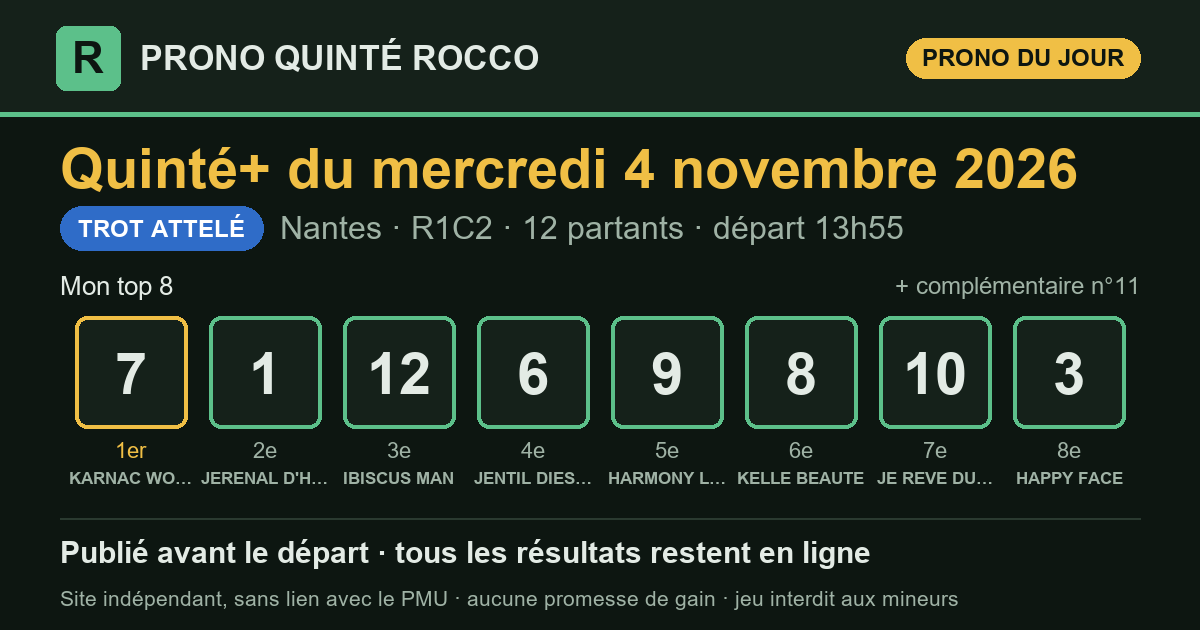
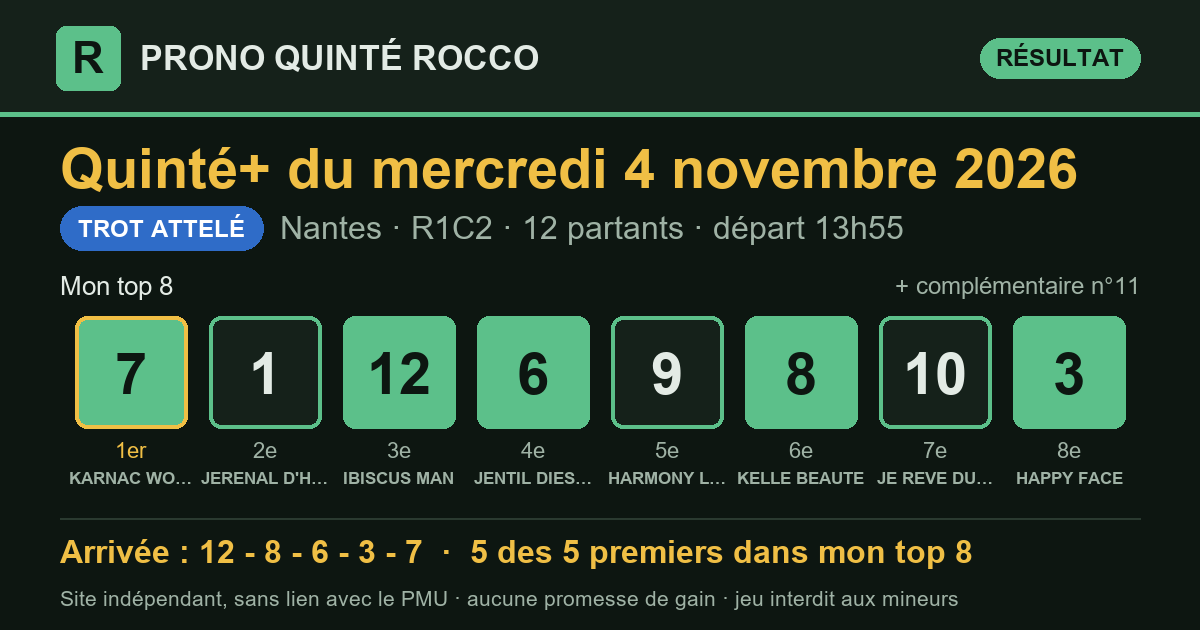
Prono Quinté+ 2026-11-04 Nantes R1C2 — publié le 04/11/2026 14:12 (heure de Paris)

diff --git a/partants.html b/partants.html
@@ -3,7 +3,7 @@
 <head>
 <meta charset="utf-8">
 <meta name="viewport" content="width=device-width, initial-scale=1, viewport-fit=cover">
-<title>Partants du Quinté+ du mercredi 4 novembre 2026 — Prono Quinté Rocco</title>
+<title>Partants du Quinté+ du jeudi 5 novembre 2026 — Prono Quinté Rocco</title>
 <meta name="description" content="Les partants du prochain Quinté+ (programme officiel du PMU), avec le rang de chaque cheval dans mon prono et les liens vers les pronostics de la presse.">
 <link rel="canonical" href="https://prono-quinte-rocco.fr/partants.html">
 <link rel="stylesheet" href="style.css?v=36fc57ed">
@@ -13,7 +13,7 @@
 <meta property="og:site_name" content="Prono Quinté Rocco">
 <meta property="og:locale" content="fr_FR">
 <meta property="og:type" content="website">
-<meta property="og:title" content="Partants du Quinté+ du mercredi 4 novembre 2026 — Prono Quinté Rocco">
+<meta property="og:title" content="Partants du Quinté+ du jeudi 5 novembre 2026 — Prono Quinté Rocco">
 <meta property="og:description" content="Les partants du prochain Quinté+ (programme officiel du PMU), avec le rang de chaque cheval dans mon prono et les liens vers les pronostics de la presse.">
 <meta property="og:url" content="https://prono-quinte-rocco.fr/partants.html">
 <meta name="twitter:card" content="summary">
@@ -29,85 +29,110 @@
   <p class="surtitre">Programme officiel du PMU</p>
   <h1>Les partants du prochain Quinté+</h1>
   <div class="fiche-course">
-    <p class="fiche-date">Mercredi 4 novembre 2026</p>
-    <div class="fiche-rc"><span class="pastille" title="Réunion 1">R1</span><span class="pastille" title="Course 2">C2</span><span class="fiche-nom">Grand National du Trot</span></div>
-    <p class="meta"><span class="type t-attele">Trot attelé</span>Nantes · 3 000 m · 12 partants</p>
+    <p class="fiche-date">Jeudi 5 novembre 2026</p>
+    <div class="fiche-rc"><span class="pastille" title="Réunion 1">R1</span><span class="pastille" title="Course 1">C1</span><span class="fiche-nom">Prix d&#x27;Avranches</span></div>
+    <p class="meta"><span class="type t-attele">Trot attelé</span>Vincennes · 2 100 m · 18 partants</p>
     <p class="fiche-depart">Départ <b>13:55</b> <span>heure de Paris</span></p>
   </div>
   <p class="surtitre">Les pronostics ailleurs sur le web</p>
-  <div class="liens"><a class="lien-ext" href="https://www.turfoo.fr/programmes-courses/261104/reunion1-nantes/course2-grand-national-du-trot/pronostics-presse/" rel="noopener" target="_blank"><b>Les pronostics de la presse →</b><span>sur Turfoo (site extérieur)</span></a><a class="lien-ext" href="https://www.geny.com/programme/2026-11-04" rel="noopener" target="_blank"><b>Partants et pronostics →</b><span>programme du jour sur Geny (site extérieur)</span></a></div>
+  <div class="liens"><a class="lien-ext" href="https://www.turfoo.fr/programmes-courses/261105/reunion1-vincennes/course1-prix-d-avranches/pronostics-presse/" rel="noopener" target="_blank"><b>Les pronostics de la presse →</b><span>sur Turfoo (site extérieur)</span></a><a class="lien-ext" href="https://www.geny.com/programme/2026-11-05" rel="noopener" target="_blank"><b>Partants et pronostics →</b><span>programme du jour sur Geny (site extérieur)</span></a></div>
   <div class="liste-boite"><table class="liste-partants">
     <thead><tr><th>N°</th><th>Cheval</th><th class="cote"><span class="long">Cote du matin</span><span class="court">Cote</span></th>
     <th class="ia"><span class="long">Mon prono</span><span class="court">Prono</span></th></tr></thead>
     <tbody><tr>
   <td><span class="tapis petit">1</span></td>
-  <td><span class="cheval">JERENAL D&#x27;HAMELINE</span><span class="sous">A. WIELS · J.P. MARMION</span></td>
-  <td class="cote num">10,0</td>
-  <td class="ia"><span class="etat place">2<sup>e</sup></span></td>
+  <td><span class="cheval">KOTKIE</span><span class="sous">P.PH. PLOQUIN · J.R. DELLIAUX</span></td>
+  <td class="cote num">—</td>
+  <td class="ia">—</td>
 </tr><tr>
   <td><span class="tapis petit">2</span></td>
-  <td><span class="cheval">IDOLE DE MEAT</span><span class="sous">F. GUINHUT · F. GUINHUT</span></td>
-  <td class="cote num">47,0</td>
+  <td><span class="cheval">ISIS D&#x27;HERFRAIE</span><span class="sous">D. THOMAIN · CL. THOMAIN</span></td>
+  <td class="cote num">—</td>
   <td class="ia">—</td>
 </tr><tr>
   <td><span class="tapis petit">3</span></td>
-  <td><span class="cheval">HAPPY FACE</span><span class="sous">M. ABRIVARD · CH.A. MARY</span></td>
-  <td class="cote num">19,0</td>
-  <td class="ia"><span class="etat place">8<sup>e</sup></span></td>
+  <td><span class="cheval">MATEO DI QUATTRO</span><span class="sous">B. GOOP · B. GOOP</span></td>
+  <td class="cote num">—</td>
+  <td class="ia">—</td>
 </tr><tr>
   <td><span class="tapis petit">4</span></td>
-  <td><span class="cheval">HAPPY DANOVER</span><span class="sous">J. TRAVERS · St. PROVOOST</span></td>
-  <td class="cote num">49,0</td>
+  <td><span class="cheval">JOKER DES CHALIERS</span><span class="sous">G. GELORMINI · A. CHAVATTE</span></td>
+  <td class="cote num">—</td>
   <td class="ia">—</td>
 </tr><tr>
   <td><span class="tapis petit">5</span></td>
-  <td><span class="cheval">JANE AIMEE</span><span class="sous">J.PH. MONCLIN · Sté. Ent. Christophe CLIN</span></td>
-  <td class="cote num">63,0</td>
+  <td><span class="cheval">EVERY TIME WINNER</span><span class="sous">E. RAFFIN · H.E. BONDO</span></td>
+  <td class="cote num">—</td>
   <td class="ia">—</td>
 </tr><tr>
   <td><span class="tapis petit">6</span></td>
-  <td><span class="cheval">JENTIL DIESCHOOT</span><span class="sous">A. COLLETTE · K. LEBLANC</span></td>
-  <td class="cote num">7,9</td>
-  <td class="ia"><span class="etat place">4<sup>e</sup></span></td>
+  <td><span class="cheval">HUMANITY PELLINI</span><span class="sous">D. BEKAERT · CH. ERIKSSON</span></td>
+  <td class="cote num">—</td>
+  <td class="ia">—</td>
 </tr><tr>
   <td><span class="tapis petit">7</span></td>
-  <td><span class="cheval">KARNAC WOOD</span><span class="sous">H. MONTHULE · S. GUARATO</span></td>
-  <td class="cote num">4,2</td>
-  <td class="ia"><span class="etat place">1<sup>er</sup></span></td>
+  <td><span class="cheval">JUSSEO</span><span class="sous">JULIEN RAFFESTIN · Julien RAFFESTIN</span></td>
+  <td class="cote num">—</td>
+  <td class="ia">—</td>
 </tr><tr>
   <td><span class="tapis petit">8</span></td>
-  <td><span class="cheval">KELLE BEAUTE</span><span class="sous">A. ABRIVARD · L.CL. ABRIVARD</span></td>
-  <td class="cote num">10,0</td>
-  <td class="ia"><span class="etat place">6<sup>e</sup></span></td>
+  <td><span class="cheval">HINDEN</span><span class="sous">A. BARRIER · P.J. CORDEAU</span></td>
+  <td class="cote num">—</td>
+  <td class="ia">—</td>
 </tr><tr>
   <td><span class="tapis petit">9</span></td>
-  <td><span class="cheval">HARMONY LA NUIT</span><span class="sous">E. RAFFIN · S. BOURLIER</span></td>
-  <td class="cote num">11,0</td>
-  <td class="ia"><span class="etat place">5<sup>e</sup></span></td>
+  <td><span class="cheval">READY STAR</span><span class="sous">MATS DJUSE · J. WESTHOLM</span></td>
+  <td class="cote num">—</td>
+  <td class="ia">—</td>
 </tr><tr>
   <td><span class="tapis petit">10</span></td>
-  <td><span class="cheval">JE REVE DU BOIS</span><span class="sous">A. BARRIER · CH.M. BRUNEAU</span></td>
-  <td class="cote num">12,0</td>
-  <td class="ia"><span class="etat place">7<sup>e</sup></span></td>
+  <td><span class="cheval">DIE HARD (ITY)</span><span class="sous">THEO DUVALDESTIN · P.L. DESAUNETTE</span></td>
+  <td class="cote num">—</td>
+  <td class="ia">—</td>
 </tr><tr>
   <td><span class="tapis petit">11</span></td>
-  <td><span class="cheval">HORATIUS D&#x27;ELA</span><span class="sous">B. ROCHARD · M. SASSIER</span></td>
-  <td class="cote num">11,0</td>
-  <td class="ia"><span class="etat place">compl.</span></td>
+  <td><span class="cheval">KIRA BO FACE</span><span class="sous">M. BROUWER · D. BROUWER</span></td>
+  <td class="cote num">—</td>
+  <td class="ia">—</td>
 </tr><tr>
   <td><span class="tapis petit">12</span></td>
-  <td><span class="cheval">IBISCUS MAN</span><span class="sous">M. MOTTIER · R.CH. LARUE</span></td>
-  <td class="cote num">3,9</td>
-  <td class="ia"><span class="etat place">3<sup>e</sup></span></td>
-</tr><tr class="np">
+  <td><span class="cheval">KAXIG IN</span><span class="sous">A. COLLETTE · David PERSSON</span></td>
+  <td class="cote num">—</td>
+  <td class="ia">—</td>
+</tr><tr>
   <td><span class="tapis petit">13</span></td>
-  <td><span class="cheval">JINGLE DU PONT</span><span class="sous">R. CONGARD · N. BAZIRE</span></td>
-  <td class="cote num">NP</td>
+  <td><span class="cheval">INSTINCT D&#x27;AUTHISE</span><span class="sous">L. LAUDREN · L. LAUDREN</span></td>
+  <td class="cote num">—</td>
+  <td class="ia">—</td>
+</tr><tr>
+  <td><span class="tapis petit">14</span></td>
+  <td><span class="cheval">KNOCKONWOOD</span><span class="sous">R. LAMY · R.CH. LARUE</span></td>
+  <td class="cote num">—</td>
+  <td class="ia">—</td>
+</tr><tr>
+  <td><span class="tapis petit">15</span></td>
+  <td><span class="cheval">COMPETIVO</span><span class="sous">B. ROCHARD · Daniel WAJERSTEN</span></td>
+  <td class="cote num">—</td>
+  <td class="ia">—</td>
+</tr><tr>
+  <td><span class="tapis petit">16</span></td>
+  <td><span class="cheval">ZOOM DIAMANT</span><span class="sous">M. ABRIVARD · P. HAGOORT</span></td>
+  <td class="cote num">—</td>
+  <td class="ia">—</td>
+</tr><tr>
+  <td><span class="tapis petit">17</span></td>
+  <td><span class="cheval">NIAGARA RIVER</span><span class="sous">D. BROUWER · D. BROUWER</span></td>
+  <td class="cote num">—</td>
+  <td class="ia">—</td>
+</tr><tr>
+  <td><span class="tapis petit">18</span></td>
+  <td><span class="cheval">JUNKIE (SWE)</span><span class="sous">CL. FRECELLE · P. LEVESQUE</span></td>
+  <td class="cote num">—</td>
   <td class="ia">—</td>
 </tr></tbody>
   </table></div>
-  <p class="meta">La colonne « Mon prono » donne le rang de chaque cheval dans mon top 8, tel qu&#x27;il est publié sur ce site. Sous chaque cheval : driver · entraîneur. Partants et cotes : programme
-  officiel du PMU, lu le 04/11 à 12:24 (heure de Paris). NP = non-partant.</p>
+  <p class="meta">Mon prono de cette course sera publié le matin de la course, avant le départ. Sous chaque cheval : driver · entraîneur. Partants et cotes : programme
+  officiel du PMU, lu le 04/11 à 14:12 (heure de Paris). NP = non-partant.</p>
 </section>
 </main>
 <footer class="pied">

diff --git a/index.html b/index.html
@@ -16,7 +16,7 @@
 <meta property="og:title" content="Pronostic Quinté+ du mercredi 4 novembre 2026 — Prono Quinté Rocco">
 <meta property="og:description" content="Pronostic Quinté+ du jour : mon top 8, publié avant le départ, puis tous les résultats et le rendement réel.">
 <meta property="og:url" content="https://prono-quinte-rocco.fr/">
-<meta property="og:image" content="https://prono-quinte-rocco.fr/partage/2026-11-04.png?v=69b8175b">
+<meta property="og:image" content="https://prono-quinte-rocco.fr/partage/2026-11-04.png?v=9ca98247">
 <meta property="og:image:type" content="image/png">
 <meta property="og:image:width" content="1200">
 <meta property="og:image:height" content="630">
@@ -31,7 +31,7 @@
 </header>
 <main>
 <section class="une" aria-labelledby="t-jour">
-  <p class="surtitre">Quinté+ du jour</p>
+  <p class="surtitre">Dernier Quinté+</p>
   <h1 id="t-jour">Le prono du Quinté+, résultats compris</h1>
   <p class="chapo">Chaque matin, j'étudie les partants du Quinté+ avec le logiciel que
   j'ai conçu, selon ma propre méthode, qu'une intelligence artificielle m'aide à
@@ -42,10 +42,13 @@
   <p class="meta">Nantes · <strong>R1C2</strong> · 12 partants · lisibilité <span class="note" aria-label="note 3 sur 5"><i class="on"></i><i class="on"></i><i class="on"></i><i class=""></i><i class=""></i></span> 3/5</p>
   <div class="zone-prono">
     <h3 class="zone-titre">Mon top 8</h3>
-    <ol class="partants" aria-label="Mon top 8"><li><span class="rang">1<sup>er</sup></span><span class="tapis ">7</span><span class="nom">KARNAC WOOD</span></li><li><span class="rang">2<sup>e</sup></span><span class="tapis ">1</span><span class="nom">JERENAL D&#x27;HAMELINE</span></li><li><span class="rang">3<sup>e</sup></span><span class="tapis ">12</span><span class="nom">IBISCUS MAN</span></li><li><span class="rang">4<sup>e</sup></span><span class="tapis ">6</span><span class="nom">JENTIL DIESCHOOT</span></li><li><span class="rang">5<sup>e</sup></span><span class="tapis ">9</span><span class="nom">HARMONY LA NUIT</span></li><li><span class="rang">6<sup>e</sup></span><span class="tapis ">8</span><span class="nom">KELLE BEAUTE</span></li><li><span class="rang">7<sup>e</sup></span><span class="tapis ">10</span><span class="nom">JE REVE DU BOIS</span></li><li><span class="rang">8<sup>e</sup></span><span class="tapis ">3</span><span class="nom">HAPPY FACE</span></li><li><span class="rang">compl.</span><span class="tapis creux">11</span><span class="nom">HORATIUS D&#x27;ELA</span></li></ol>
+    <ol class="partants" aria-label="Mon top 8"><li><span class="rang">1<sup>er</sup></span><span class="tapis plein">7</span><span class="nom">KARNAC WOOD</span></li><li><span class="rang">2<sup>e</sup></span><span class="tapis ">1</span><span class="nom">JERENAL D&#x27;HAMELINE</span></li><li><span class="rang">3<sup>e</sup></span><span class="tapis plein">12</span><span class="nom">IBISCUS MAN</span></li><li><span class="rang">4<sup>e</sup></span><span class="tapis plein">6</span><span class="nom">JENTIL DIESCHOOT</span></li><li><span class="rang">5<sup>e</sup></span><span class="tapis ">9</span><span class="nom">HARMONY LA NUIT</span></li><li><span class="rang">6<sup>e</sup></span><span class="tapis plein">8</span><span class="nom">KELLE BEAUTE</span></li><li><span class="rang">7<sup>e</sup></span><span class="tapis ">10</span><span class="nom">JE REVE DU BOIS</span></li><li><span class="rang">8<sup>e</sup></span><span class="tapis plein">3</span><span class="nom">HAPPY FACE</span></li><li><span class="rang">compl.</span><span class="tapis creux">11</span><span class="nom">HORATIUS D&#x27;ELA</span></li></ol>
     <div class="pied-carte"><span>Analysé le 04/11 à 12:20 · en ligne le 04/11 à 12:22 · départ à 13:55 (heure de Paris)</span><span><a href="quinte/2026-11-04.html">Détail de la course</a></span></div>
   </div>
-  <div class="zone-arrivee attente"><p>L'arrivée officielle s'affichera ici après la course.</p></div>
+  <div class="zone-arrivee">
+    <div class="zone-tete"><h3 class="zone-titre">Arrivée officielle</h3><span class="etat place">5 des 5 premiers dans mon top 8</span><span class="etat non">mon 1er (n°7) : non placé</span></div>
+    <ol class="partants" aria-label="Arrivée officielle"><li><span class="rang">1<sup>er</sup></span><span class="tapis plein">12</span><span class="nom">IBISCUS MAN</span></li><li><span class="rang">2<sup>e</sup></span><span class="tapis plein">8</span><span class="nom">KELLE BEAUTE</span></li><li><span class="rang">3<sup>e</sup></span><span class="tapis plein">6</span><span class="nom">JENTIL DIESCHOOT</span></li><li><span class="rang">4<sup>e</sup></span><span class="tapis plein">3</span><span class="nom">HAPPY FACE</span></li><li><span class="rang">5<sup>e</sup></span><span class="tapis plein">7</span><span class="nom">KARNAC WOOD</span></li></ol>
+  </div>
 </article>
 </section>
 <section class="suivre" aria-label="Suivre et soutenir">
@@ -75,7 +78,7 @@
 </section>
 <section class="bilan" aria-labelledby="t-bilan">
   <h2 id="t-bilan">Mon bilan depuis le 8 septembre 2026</h2>
-  <div class="tableau chiffres"><div class="case"><span class="gros ">73 %</span><span class="lib">des arrivants trouvés dans mon top 8</span><span class="ref">un top 8 tiré au hasard : 51 %</span></div><div class="case"><span class="gros ">88 %</span><span class="lib">des gagnants présents dans mon top 8</span><span class="ref"></span></div><div class="case"><span class="gros ">46 %</span><span class="lib">mon 1er placé</span><span class="ref">sur 56 Quintés</span></div><div class="case"><span class="gros perte">0,86 €</span><span class="lib">rendus pour 1 € joué placé sur mon 1er</span><span class="ref">rapports officiels PMU</span></div><div class="case"><span class="gros perte">0,46 €</span><span class="lib">rendus pour 1 € joué en Quinté+ combiné sur mon top 8</span><span class="ref">56 combinaisons, rapports PMU.fr, sur 56 Quintés</span></div></div>
+  <div class="tableau chiffres"><div class="case"><span class="gros ">73 %</span><span class="lib">des arrivants trouvés dans mon top 8</span><span class="ref">un top 8 tiré au hasard : 51 %</span></div><div class="case"><span class="gros ">88 %</span><span class="lib">des gagnants présents dans mon top 8</span><span class="ref"></span></div><div class="case"><span class="gros ">46 %</span><span class="lib">mon 1er placé</span><span class="ref">sur 56 Quintés</span></div><div class="case"><span class="gros perte">0,86 €</span><span class="lib">rendus pour 1 € joué placé sur mon 1er</span><span class="ref">rapports officiels PMU</span></div><div class="case"><span class="gros perte">0,46 €</span><span class="lib">rendus pour 1 € joué en Quinté+ combiné sur mon top 8</span><span class="ref">56 combinaisons, rapports PMU.fr, sur 57 Quintés</span></div></div>
   <p class="avertissement">Moins de 1 € rendu pour 1 € joué : suivre mon prono à la lettre fait <strong>perdre de l'argent</strong> sur cette période. Il sert à analyser une course, pas à promettre un gain.</p>
 </section>
 </main>

diff --git a/quinte/2026-11-04.html b/quinte/2026-11-04.html
@@ -16,7 +16,7 @@
 <meta property="og:title" content="Pronostic Quinté+ du mercredi 4 novembre 2026 à Nantes — Prono Quinté Rocco">
 <meta property="og:description" content="Prono Quinté+ du mercredi 4 novembre 2026 (Nantes) : mon top 8, l&#x27;arrivée officielle et les rapports PMU.fr.">
 <meta property="og:url" content="https://prono-quinte-rocco.fr/quinte/2026-11-04.html">
-<meta property="og:image" content="https://prono-quinte-rocco.fr/partage/2026-11-04.png?v=69b8175b">
+<meta property="og:image" content="https://prono-quinte-rocco.fr/partage/2026-11-04.png?v=9ca98247">
 <meta property="og:image:type" content="image/png">
 <meta property="og:image:width" content="1200">
 <meta property="og:image:height" content="630">
@@ -35,15 +35,25 @@
   <h1>Pronostic Quinté+ du mercredi 4 novembre 2026</h1>
   <p class="chapo">Nantes · R1C2 · Attelé · 12 partants</p>
   <article class="carte-course">
-  <div class="tete"><h2>Mon prono</h2><span class="type t-attele">Trot attelé</span></div>
+  <div class="tete"><h2>Mon prono et l&#x27;arrivée officielle</h2><span class="type t-attele">Trot attelé</span></div>
   <p class="meta">Nantes · <strong>R1C2</strong> · 12 partants · lisibilité <span class="note" aria-label="note 3 sur 5"><i class="on"></i><i class="on"></i><i class="on"></i><i class=""></i><i class=""></i></span> 3/5</p>
   <div class="zone-prono">
     <h3 class="zone-titre">Mon top 8</h3>
-    <ol class="partants" aria-label="Mon top 8"><li><span class="rang">1<sup>er</sup></span><span class="tapis ">7</span><span class="nom">KARNAC WOOD</span></li><li><span class="rang">2<sup>e</sup></span><span class="tapis ">1</span><span class="nom">JERENAL D&#x27;HAMELINE</span></li><li><span class="rang">3<sup>e</sup></span><span class="tapis ">12</span><span class="nom">IBISCUS MAN</span></li><li><span class="rang">4<sup>e</sup></span><span class="tapis ">6</span><span class="nom">JENTIL DIESCHOOT</span></li><li><span class="rang">5<sup>e</sup></span><span class="tapis ">9</span><span class="nom">HARMONY LA NUIT</span></li><li><span class="rang">6<sup>e</sup></span><span class="tapis ">8</span><span class="nom">KELLE BEAUTE</span></li><li><span class="rang">7<sup>e</sup></span><span class="tapis ">10</span><span class="nom">JE REVE DU BOIS</span></li><li><span class="rang">8<sup>e</sup></span><span class="tapis ">3</span><span class="nom">HAPPY FACE</span></li><li><span class="rang">compl.</span><span class="tapis creux">11</span><span class="nom">HORATIUS D&#x27;ELA</span></li></ol>
+    <ol class="partants" aria-label="Mon top 8"><li><span class="rang">1<sup>er</sup></span><span class="tapis plein">7</span><span class="nom">KARNAC WOOD</span></li><li><span class="rang">2<sup>e</sup></span><span class="tapis ">1</span><span class="nom">JERENAL D&#x27;HAMELINE</span></li><li><span class="rang">3<sup>e</sup></span><span class="tapis plein">12</span><span class="nom">IBISCUS MAN</span></li><li><span class="rang">4<sup>e</sup></span><span class="tapis plein">6</span><span class="nom">JENTIL DIESCHOOT</span></li><li><span class="rang">5<sup>e</sup></span><span class="tapis ">9</span><span class="nom">HARMONY LA NUIT</span></li><li><span class="rang">6<sup>e</sup></span><span class="tapis plein">8</span><span class="nom">KELLE BEAUTE</span></li><li><span class="rang">7<sup>e</sup></span><span class="tapis ">10</span><span class="nom">JE REVE DU BOIS</span></li><li><span class="rang">8<sup>e</sup></span><span class="tapis plein">3</span><span class="nom">HAPPY FACE</span></li><li><span class="rang">compl.</span><span class="tapis creux">11</span><span class="nom">HORATIUS D&#x27;ELA</span></li></ol>
     <div class="pied-carte"><span>Analysé le 04/11 à 12:20 · en ligne le 04/11 à 12:22 · départ à 13:55 (heure de Paris)</span><span></span></div>
   </div>
-  <div class="zone-arrivee attente"><p>L'arrivée officielle s'affichera ici après la course.</p></div>
+  <div class="zone-arrivee">
+    <div class="zone-tete"><h3 class="zone-titre">Arrivée officielle</h3><span class="etat place">5 des 5 premiers dans mon top 8</span><span class="etat non">mon 1er (n°7) : non placé</span></div>
+    <ol class="partants" aria-label="Arrivée officielle"><li><span class="rang">1<sup>er</sup></span><span class="tapis plein">12</span><span class="nom">IBISCUS MAN</span></li><li><span class="rang">2<sup>e</sup></span><span class="tapis plein">8</span><span class="nom">KELLE BEAUTE</span></li><li><span class="rang">3<sup>e</sup></span><span class="tapis plein">6</span><span class="nom">JENTIL DIESCHOOT</span></li><li><span class="rang">4<sup>e</sup></span><span class="tapis plein">3</span><span class="nom">HAPPY FACE</span></li><li><span class="rang">5<sup>e</sup></span><span class="tapis plein">7</span><span class="nom">KARNAC WOOD</span></li></ol>
+  </div>
 </article>
+<section class="carte-course rapports" aria-labelledby="t-rap">
+  <div class="tete"><h2 id="t-rap">Les rapports</h2></div>
+  <div class="deux">
+    <div><h3>Ce qu'aurait rendu mon prono</h3><dl class="kv"><dt>1 € placé sur mon 1er (n°7)</dt><dd>rapport manquant</dd><dt>1 € gagnant sur mon 1er</dt><dd>rapport manquant</dd><dt>Quinté+ combiné sur mon top 8 (mise 112 €)</dt><dd>102,00 €</dd><dt>dont</dt><dd>Désordre × 1, Bonus 4sur5 × 15, Bonus 3 × 3</dd></dl></div>
+    <div><h3>Rapports officiels</h3><dl class="kv"><dt>e-Quinté+ Ordre (2 €)</dt><dd>6 266,00 €</dd><dt>e-Quinté+ Désordre (2 €)</dt><dd>52,20 €</dd><dt>e-Bonus 4sur5 (2 €)</dt><dd>2,80 €</dd><dt>e-Bonus 3 (2 €)</dt><dd>2,60 €</dd></dl></div>
+  </div>
+</section>
 </section>
 </main>
 <footer class="pied">

diff --git a/resultats.html b/resultats.html
@@ -40,11 +40,11 @@
     <th colspan="4" class="res g-res">Le résultat officiel</th></tr>
     <tr><th>Date</th><th>Course</th><th>Top 8</th><th class="res c-arr">Arrivée</th>
     <th class="res">Trouvés</th><th class="res">Mon 1er</th><th class="res mont">Quinté+ top 8<br>(mise 112 €)</th></tr></thead>
-    <tbody><tr class="attente">
+    <tbody><tr>
   <td class="c-date"><a href="quinte/2026-11-04.html">04/11</a></td>
   <td class="c-course">Nantes<br><span class="meta">R1C2</span><span class="type t-attele petit">Attelé</span></td>
-  <td class="c-top8" data-label="Mon top 8"><div class="rangee"><span class="tapis petit">7</span><span class="tapis petit">1</span><span class="tapis petit">12</span><span class="tapis petit">6</span><span class="tapis petit">9</span><span class="tapis petit">8</span><span class="tapis petit">10</span><span class="tapis petit">3</span></div></td>
-  <td class="res c-arr" data-label="Arrivée"><span class="etat attente">en attente</span></td><td class="res num c-trouves" data-label="Trouvés">—</td><td class="res c-premier" data-label="Mon 1er"><span class="etat attente">—</span></td><td class="res mont c-mont" data-label="Quinté+ top 8 (mise 112 €)">—</td>
+  <td class="c-top8" data-label="Mon top 8"><div class="rangee"><span class="tapis plein petit">7</span><span class="tapis petit">1</span><span class="tapis plein petit">12</span><span class="tapis plein petit">6</span><span class="tapis petit">9</span><span class="tapis plein petit">8</span><span class="tapis petit">10</span><span class="tapis plein petit">3</span></div></td>
+  <td class="res c-arr" data-label="Arrivée"><div class="rangee"><span class="tapis plein petit" title="1er">12</span><span class="tapis plein petit" title="2e">8</span><span class="tapis plein petit" title="3e">6</span><span class="tapis plein petit" title="4e">3</span><span class="tapis plein petit" title="5e">7</span></div></td><td class="res num c-trouves" data-label="Trouvés">5/5</td><td class="res c-premier" data-label="Mon 1er"><span class="etat non">non placé</span></td><td class="res mont c-mont perte" data-label="Quinté+ top 8 (mise 112 €)">102,00 €</td>
 </tr><tr>
   <td class="c-date"><a href="quinte/2026-11-03.html">03/11</a></td>
   <td class="c-course">Vincennes<br><span class="meta">R1C1</span><span class="type t-attele petit">Attelé</span></td>
@@ -330,7 +330,7 @@
 </section>
 <section class="bilan" aria-labelledby="t-bilan">
   <h2 id="t-bilan">Mon bilan depuis le 8 septembre 2026</h2>
-  <div class="tableau chiffres"><div class="case"><span class="gros ">73 %</span><span class="lib">des arrivants trouvés dans mon top 8</span><span class="ref">un top 8 tiré au hasard : 51 %</span></div><div class="case"><span class="gros ">88 %</span><span class="lib">des gagnants présents dans mon top 8</span><span class="ref"></span></div><div class="case"><span class="gros ">46 %</span><span class="lib">mon 1er placé</span><span class="ref">sur 56 Quintés</span></div><div class="case"><span class="gros perte">0,86 €</span><span class="lib">rendus pour 1 € joué placé sur mon 1er</span><span class="ref">rapports officiels PMU</span></div><div class="case"><span class="gros perte">0,46 €</span><span class="lib">rendus pour 1 € joué en Quinté+ combiné sur mon top 8</span><span class="ref">56 combinaisons, rapports PMU.fr, sur 56 Quintés</span></div></div>
+  <div class="tableau chiffres"><div class="case"><span class="gros ">73 %</span><span class="lib">des arrivants trouvés dans mon top 8</span><span class="ref">un top 8 tiré au hasard : 51 %</span></div><div class="case"><span class="gros ">88 %</span><span class="lib">des gagnants présents dans mon top 8</span><span class="ref"></span></div><div class="case"><span class="gros ">46 %</span><span class="lib">mon 1er placé</span><span class="ref">sur 56 Quintés</span></div><div class="case"><span class="gros perte">0,86 €</span><span class="lib">rendus pour 1 € joué placé sur mon 1er</span><span class="ref">rapports officiels PMU</span></div><div class="case"><span class="gros perte">0,46 €</span><span class="lib">rendus pour 1 € joué en Quinté+ combiné sur mon top 8</span><span class="ref">56 combinaisons, rapports PMU.fr, sur 57 Quintés</span></div></div>
   <p class="avertissement">Moins de 1 € rendu pour 1 € joué : suivre mon prono à la lettre fait <strong>perdre de l'argent</strong> sur cette période. Il sert à analyser une course, pas à promettre un gain.</p>
 </section>
 </main>
